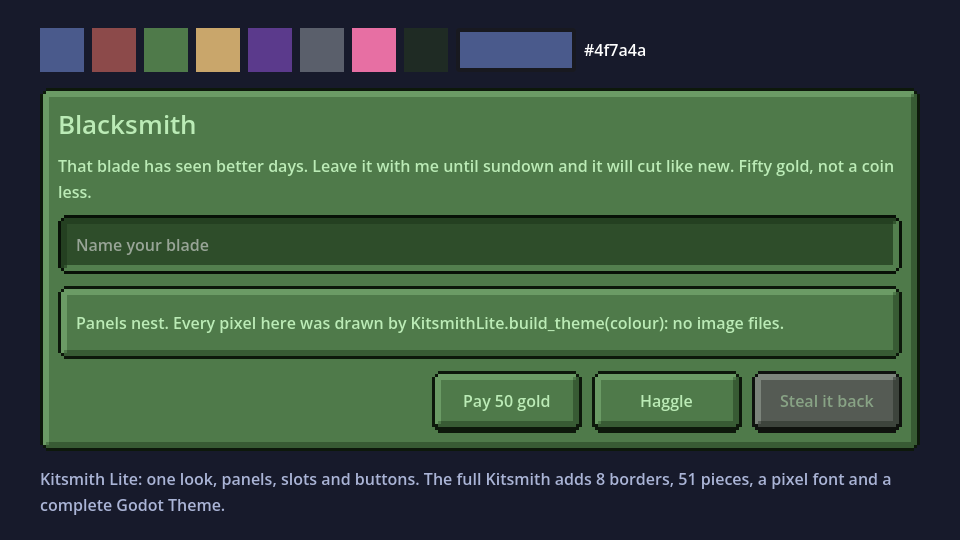
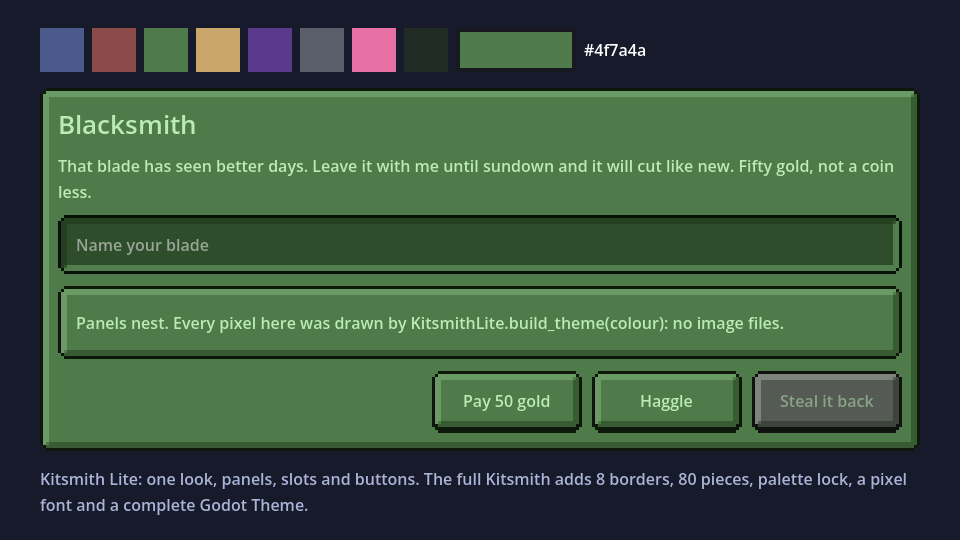
Show the current Kitsmith: 80 pieces, palette lock from a file or an image, TrueType font, new screenshots

Changed region(s): [[0.4688, 0.0593, 0.5938, 0.1481], [0.7812, 0.8593, 0.9375, 0.9185], [0.0312, 0.9185, 0.3125, 0.9481]]

diff --git a/README.md b/README.md
@@ -49,13 +49,19 @@ game HUD, a menu and a shop:
   cursor, 21 item icons and 23 interface glyphs.
 - 8 border styles, 3 corner shapes, 4 fill patterns, 14 presets and a Randomize button.
 - Palette lock: the whole kit in PICO-8, Sweetie 16, Endesga 32, DawnBringer 16, four greens, 1-bit or your own
-  `.hex` palette.
-- A pixel font in three faces (regular, bold, outline), with accented letters.
+  palette, from a palette file (`.hex`, `.gpl`, `.pal`) or straight from an image of your game: drop a tileset or
+  a screenshot on the window and the kit comes out in its colours.
+- A pixel font in three faces (regular, bold, outline), 174 glyphs with accented letters, exported as TrueType and
+  as BMFont.
 - Runs on its own or as a plugin inside the Godot editor.
-- Exports PNGs with 9-slice margins, a sprite sheet + JSON for any engine, BMFont files, CSS, and a complete Godot 4
+- Exports PNGs with 9-slice margins, a sprite sheet + JSON for any engine, the font, CSS, and a complete Godot 4
   Theme in a single file.
 
+![A screenshot of a game, and Kitsmith locked to its colours](screenshots/kitsmith-full-your-game.png)
+
 ![16 kits made with Kitsmith](screenshots/kitsmith-full-gallery.png)
+
+![Four styles, free and locked to six palettes](screenshots/kitsmith-full-palettes.png)
 
 ![Kitsmith](screenshots/kitsmith-full-app.png)
 
